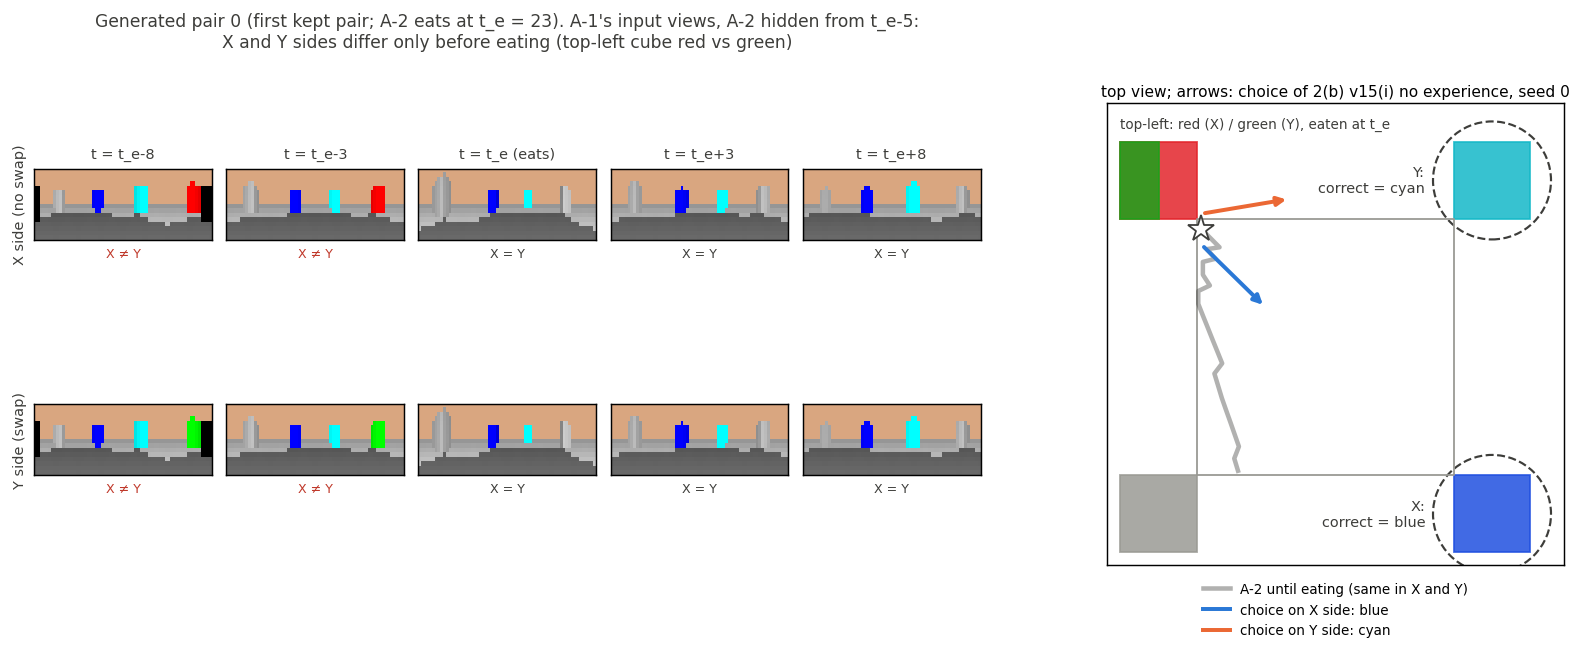
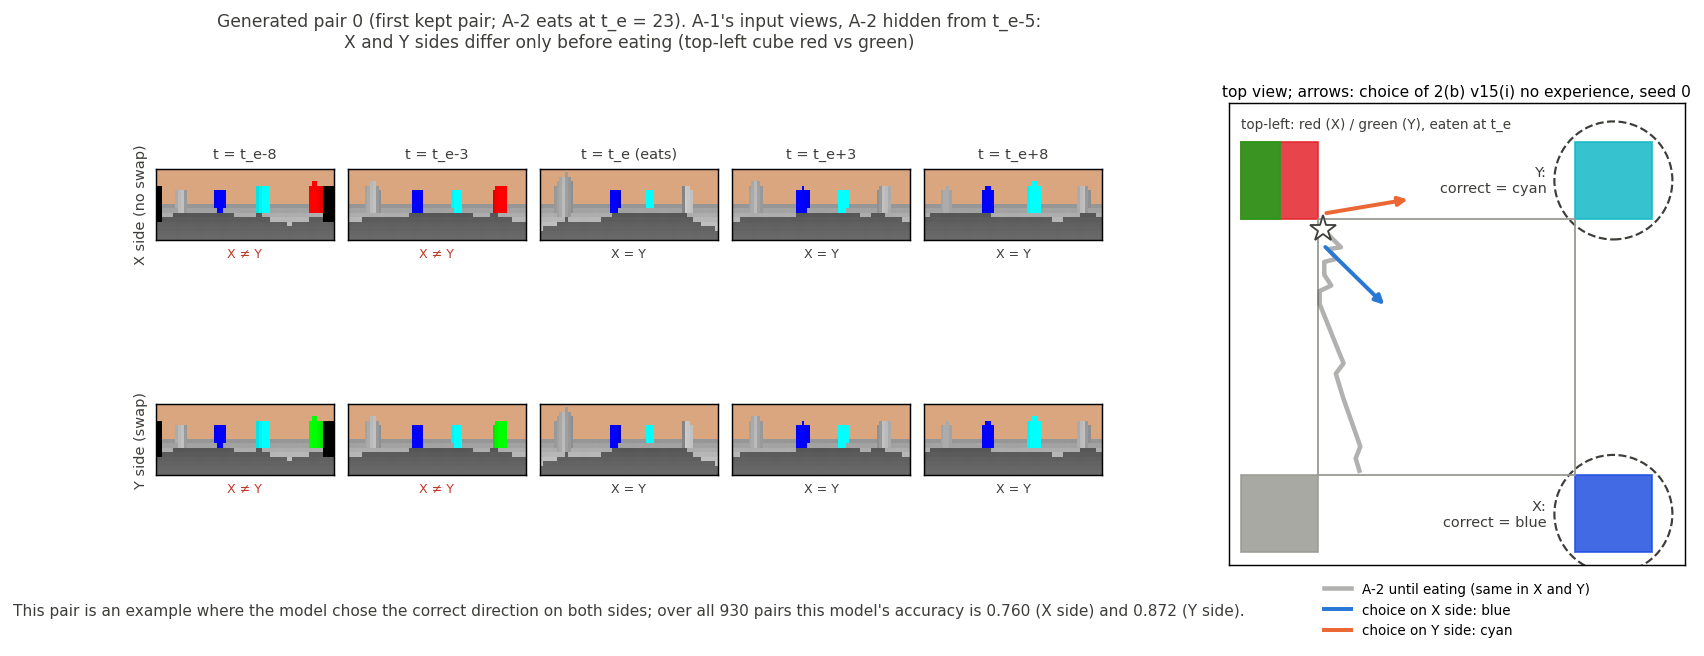
v15 summary fig1: note that the pair is an example with correct choices on both sides, and the model's overall X/Y accuracy (0.760 / 0.872)

diff --git a/my_research/preference_inference/analyze/v15/figs_summary_v15.py b/my_research/preference_inference/analyze/v15/figs_summary_v15.py
@@ -58,6 +58,8 @@ def fig1():
     assert pair[iX] == pair[iY] == k
     t_e = te[iX]
     choice = {s: blue[(rp == k) & (member == m)][0] for s, m in (('X', 'first'), ('Y', 'second'))}
+    accv = np.array(r['_acc_ev'], float)
+    acc_side = {s: float(np.nanmean(accv[member == m])) for s, m in (('X', 'first'), ('Y', 'second'))}
     frames = [t_e - 8, t_e - 3, t_e, t_e + 3, t_e + 8]
     fig = plt.figure(figsize=(13, 4.8))
     gs = fig.add_gridspec(2, 5, left=0.04, right=0.60, top=0.80, bottom=0.18, hspace=0.55, wspace=0.08)
@@ -104,6 +106,8 @@ def fig1():
     sub.set_title('top view; arrows: choice of 2(b) v15(i) no experience, seed 0', fontsize=8.5, pad=4)
     fig.text(0.32, 0.93, f"Generated pair {k} (first kept pair; A-2 eats at t_e = {t_e}). A-1's input views, A-2 hidden from t_e-5:\n"
              'X and Y sides differ only before eating (top-left cube red vs green)', ha='center', fontsize=9.5, color=INK)
+    fig.text(0.32, 0.02, f"This pair is an example where the model chose the correct direction on both sides; over all {H2} pairs "
+             f"this model's accuracy is {acc_side['X']:.3f} (X side) and {acc_side['Y']:.3f} (Y side).", ha='center', fontsize=8.5, color=INK)
     fig.savefig(os.path.join(OUT, 'fig1_generated_pair.png'), dpi=130, bbox_inches='tight'); plt.close(fig)
     return {'pair': k, 't_e': int(t_e), 'choice_blue': {s: float(v) for s, v in choice.items()}, 'n_pairs': H2, 'dropped': dropped}
 

diff --git a/my_research/preference_inference/docs/v15_summary.md b/my_research/preference_inference/docs/v15_summary.md
@@ -201,7 +201,7 @@
 | 段階2：学習曲線・位置の読み出し・P1-c・P2-a/P2-b・本命・記憶の読み出し・組の例 | `stage2/figs/s2_*.png`（7 枚） | 済み（ログ §23.4） | 自分側の見込みは出るが、本命は 0.5 付近。予測の中の A-2 がほとんど動かない |
 | 2 (b)：X 側・Y 側の分け | `stage2/figs/s2b_xy_split.png` | 済み（ログ §29.3） | 2 (b) と隠さずに学習したモデルの X・Y 別の正解率と青の割合 |
 | 2 (b)：好みの読み出しの曲線 | `stage2/figs/s2b_memory_curves.png` | 済み（ログ §29.3） | G と h² から好みを読む精度（0〜10 歩） |
-| (A)〜(D) 図 1：生成する組の一例 | `summary_figs/fig1_generated_pair.png`（`analyze/v15/figs_summary_v15.py`） | 済み（2026-10-28） | X 側と Y 側で A-1 の入力の視界が違うのは食べる前（左上の立方体が赤か緑か）だけで、食べた後は同じ視界から、正解の青（X）とシアン（Y）に分かれる。矢印は 2 (b) v15 (i) 経験なし seed 0 がこの組で選んだ向き（保存した組ごとの青・シアンの判定で、変位の大きさは描いていない。組は結果で選ばず、最初の組） |
+| (A)〜(D) 図 1：生成する組の一例 | `summary_figs/fig1_generated_pair.png`（`analyze/v15/figs_summary_v15.py`） | 済み（2026-10-28） | X 側と Y 側で A-1 の入力の視界が違うのは食べる前（左上の立方体が赤か緑か）だけで、食べた後は同じ視界から、正解の青（X）とシアン（Y）に分かれる。矢印は 2 (b) v15 (i) 経験なし seed 0 がこの組で選んだ向き（保存した組ごとの青・シアンの判定で、変位の大きさは描いていない。組は結果で選ばず、最初の組）。この組は X 側・Y 側とも正しい向きを選んだ一例で、このモデル全体の正解率は X 側 0.760、Y 側 0.872 |
 | (A)〜(D) 図 2：組の正解率の比較 | `summary_figs/fig2_pair_accuracy.png` | 済み（2026-10-28） | 方角・位置の観察者と隠さずに学習したモデルは 0.5 付近、2 (b) の共有のモデルは 0.57〜0.88 で v15 (i) では経験なしが高く、NS は経験あり・なしとも 0.5 付近（観察者は段階0 の 963 組、ほかは 930 組、点はシード、棒は組の 95% 区間） |
 | (A)〜(D) 図 3：G から好みを読む精度の曲線 | `summary_figs/fig3_g_readout_curves.png` | 済み（2026-10-28） | 2 (b) の共有のモデルは食べた後 10 歩まで好みを保ち（経験なし 0.80〜0.93、経験あり 0.68〜0.82）、隠さずに学習したモデルは 0.5 付近、NS は 0.53〜0.66 にとどまる（v15 (i)） |
 | (A)〜(D) 図 4：自分の順位ごとの寄る先 m と区別 d | `summary_figs/fig4_m_d_by_rank.png` | 済み（2026-10-28） | v15 (i) の 3 シードで、順位 Y の経験ありは m が低く（シアン＝自分の次の目標の側）d は経験なしと同じ高さ、順位 X の経験ありは m が経験なしと重なり d が低い（棒は組の 95% 区間。順位 Y seed 1 と順位 X seed 0 の m の区間は重なる） |
